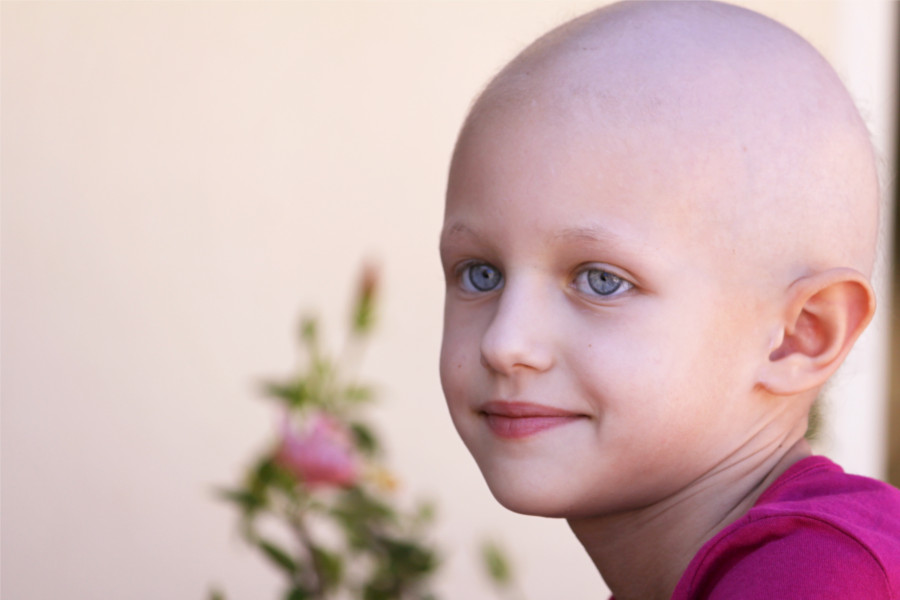
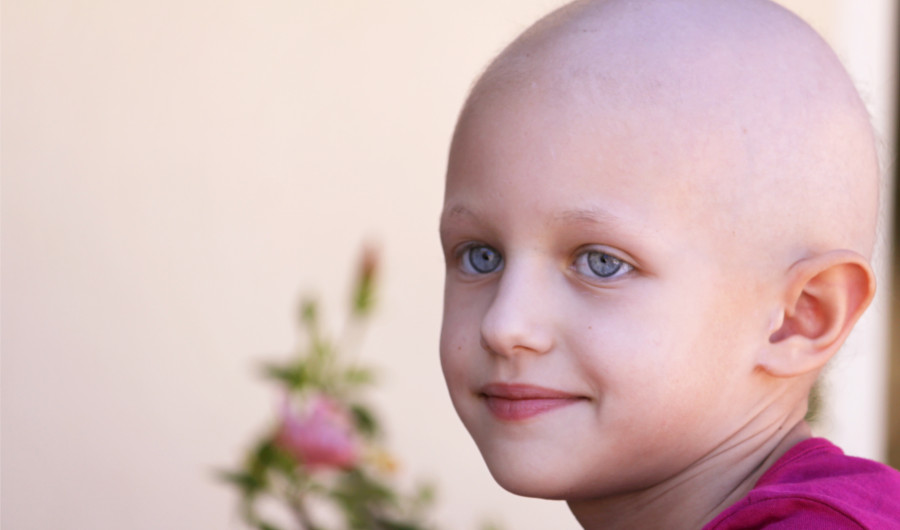
Reduced picture height and space between paragraphs

diff --git a/style.css b/style.css
@@ -32,10 +32,14 @@ a:hover {
     text-decoration: underline;
 }
 
-p{
+p {
 	margin: 1em;
 	font-size: 10px;
 	text-align: justify;
+}
+
+p + p {
+    margin-top: -0.5em;
 }
 
 #choices {
